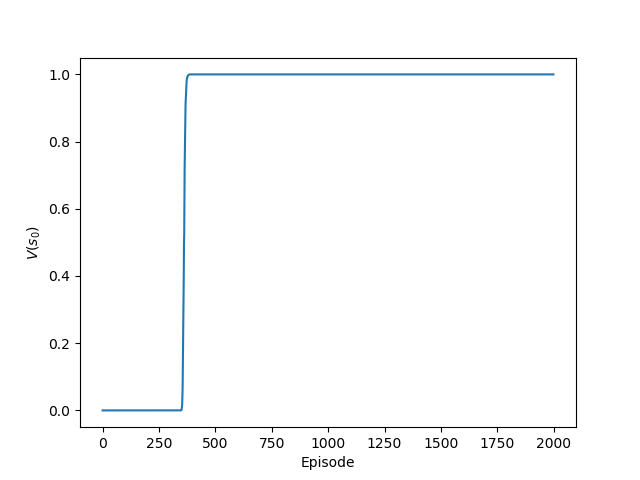
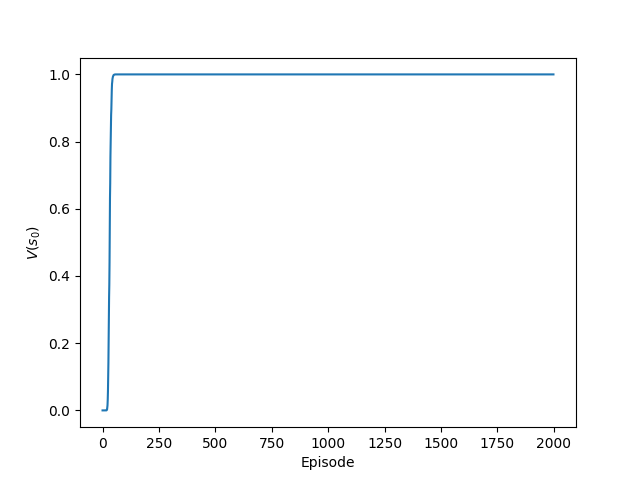
Add PrioritizedReplayBuffer

diff --git a/replay/PrioritizedReplayBuffer.py b/replay/PrioritizedReplayBuffer.py
@@ -1,0 +1,49 @@
+from collections import deque
+import random
+
+import numpy as np
+
+# https://github.com/higgsfield/RL-Adventure/blob/master/4.prioritized%20dqn.ipynb
+class PrioritizedReplayBuffer:
+    def __init__(self, capacity, prob_alpha=0.6):
+        self.prob_alpha = prob_alpha
+        self.capacity   = capacity
+        self.buffer     = []
+        self.pos        = 0
+        self.priorities = np.zeros((capacity,), dtype=np.float32)
+
+    def __len__(self):
+        return len(self.buffer)
+
+    def append(self, transition):
+        # assert state.ndim == next_state.ndim
+        # state      = np.expand_dims(state, 0)
+        # next_state = np.expand_dims(next_state, 0)
+        
+        max_prio = self.priorities.max() if self.buffer else 1.0
+        
+        if len(self.buffer) < self.capacity:
+            self.buffer.append(transition)
+        else:
+            self.buffer[self.pos] = transition
+        
+        self.priorities[self.pos] = max_prio
+        self.pos = (self.pos + 1) % self.capacity
+    
+    def sample(self, batch_size, beta=0.4):
+        if len(self.buffer) == self.capacity:
+            prios = self.priorities
+        else:
+            prios = self.priorities[:self.pos]
+        
+        probs  = prios ** self.prob_alpha
+        probs /= probs.sum()
+        
+        indices = np.random.choice(len(self.buffer), batch_size, p=probs)
+        
+        samples = [self.buffer[idx] for idx in indices]
+        return samples
+    
+    def update_priorities(self, batch_indices, batch_priorities):
+        for idx, prio in zip(batch_indices, batch_priorities):
+            self.priorities[idx] = prio

diff --git a/run_frozenlake.py b/run_frozenlake.py
@@ -5,11 +5,12 @@ Run a specified agent on FrozenLakeDeterministic8x8-v0.
 import gym
 import matplotlib.pyplot as plt
 import numpy as np
+import random
 
 from agents import *
 from common import get_running_mean, get_q_map
 from envs import get_frozenlake
-from replay import UniformReplayBuffer
+from replay import UniformReplayBuffer, PrioritizedReplayBuffer
 
 
 # Hyperparameters
@@ -20,6 +21,7 @@ EPSILON = 0.1
 
 # For reproducibility
 SEED = 0xc0ffee
+random.seed(SEED)
 np.random.seed(SEED)
 
 # Setup Agent & Environment
@@ -28,7 +30,8 @@ env = get_frozenlake(seed=SEED)
 #                               lr=LEARNING_RATE, epsilon=EPSILON)
 
 
-replay_buffer = UniformReplayBuffer(capacity=100)
+# replay_buffer = UniformReplayBuffer(capacity=100)
+replay_buffer = PrioritizedReplayBuffer(capacity=100)
 agent = TabularBufferQAgent(env.observation_space,
                             env.action_space,
                             replay_buffer,

diff --git a/replay/__init__.py b/replay/__init__.py
@@ -1,1 +1,2 @@
 from .UniformReplayBuffer import UniformReplayBuffer
+from .PrioritizedReplayBuffer import PrioritizedReplayBuffer
